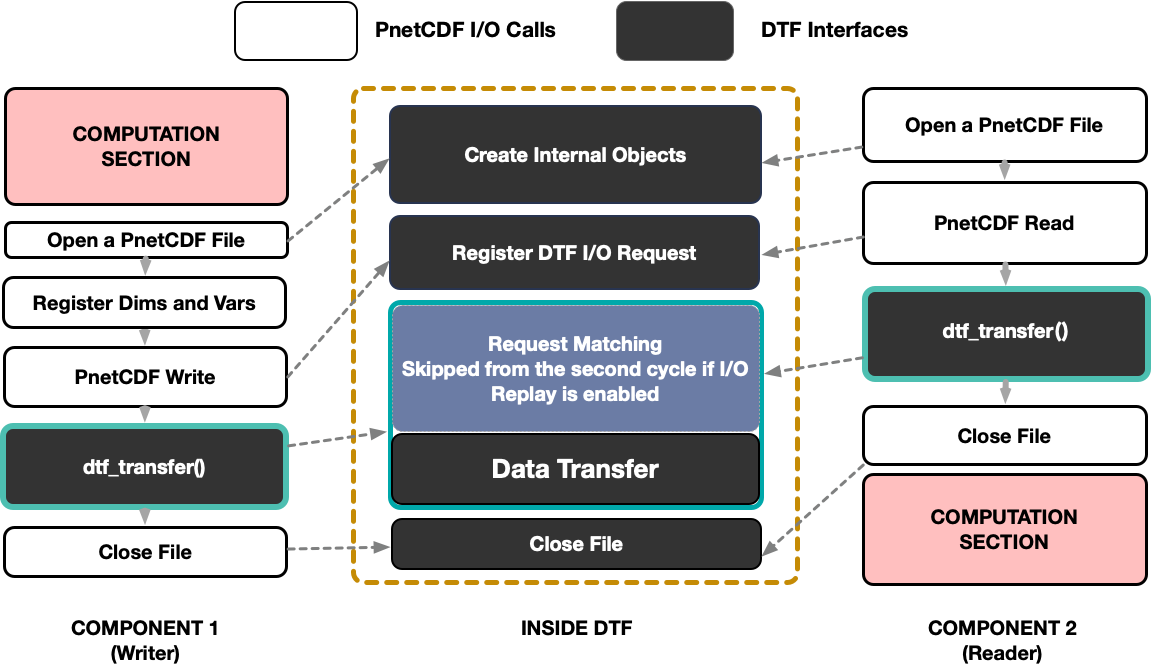
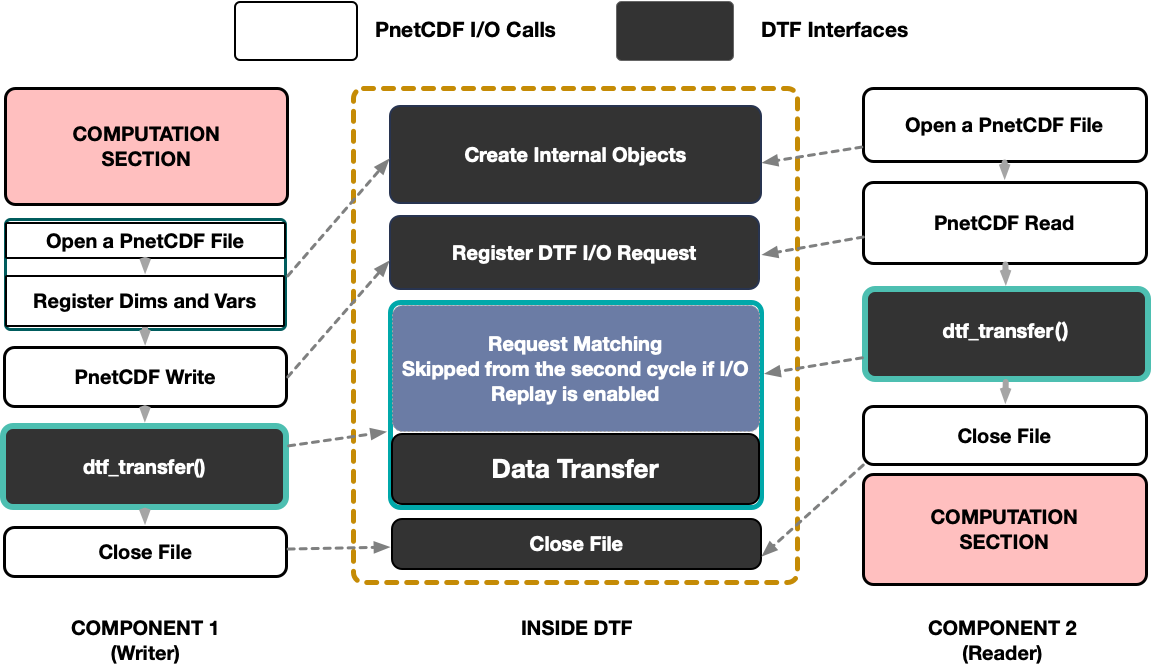
Update the image and start How-to chapter

Changed region(s): [[0.0, 0.3284, 0.2737, 0.5075], [0.3041, 0.2388, 0.3345, 0.2985], [0.2737, 0.2985, 0.3041, 0.3284]]

diff --git a/docs/source/background.rst b/docs/source/background.rst
@@ -18,6 +18,8 @@ There exists a pressing need for an easy-to-use and and highly efficient approac
 The design of DTF combines the advantages of file I/O and coupling software, which aims at minimizing the modification of existing I/O kernels in multi-component systems and providing high-speed high-efficiency inter-component data transfer.
 The current implementation of DTF works with multi-component systems whose inter-component data transfer is built upon Parallel NetCDF I/O (PnetCDF) library.
 Instead of using file systems, DTF takes full advantage of high-performance interconnects in HPC and transfers data using Message Passing Interface (MPI), which transparently redirects PnetCDF file I/O operations to message passing.
+
+This documentation assumes that the reader knows the basic usage of PnetCDF library.
 An detailed overview of DTF design will be introduced in the next section :ref:`overview`.
 
 .. _fileio-dtf:

diff --git a/docs/source/build.rst b/docs/source/build.rst
@@ -1,6 +1,17 @@
 How to Build
 ============
 
-Download DTF library from `DTF github repository`_.
+Recent DTF library and DTF-based PnetCDF library can be downloaded from `DTF github repository`_ by executing:
+
+::
+
+	git clone https://github.com/maneka07/DTF.git	
 
 .. _DTF github repository: https://github.com/maneka07/DTF/
+
+Firstly, build the DTF library:
+
+::
+
+	cd DTF/libdtf && make
+
